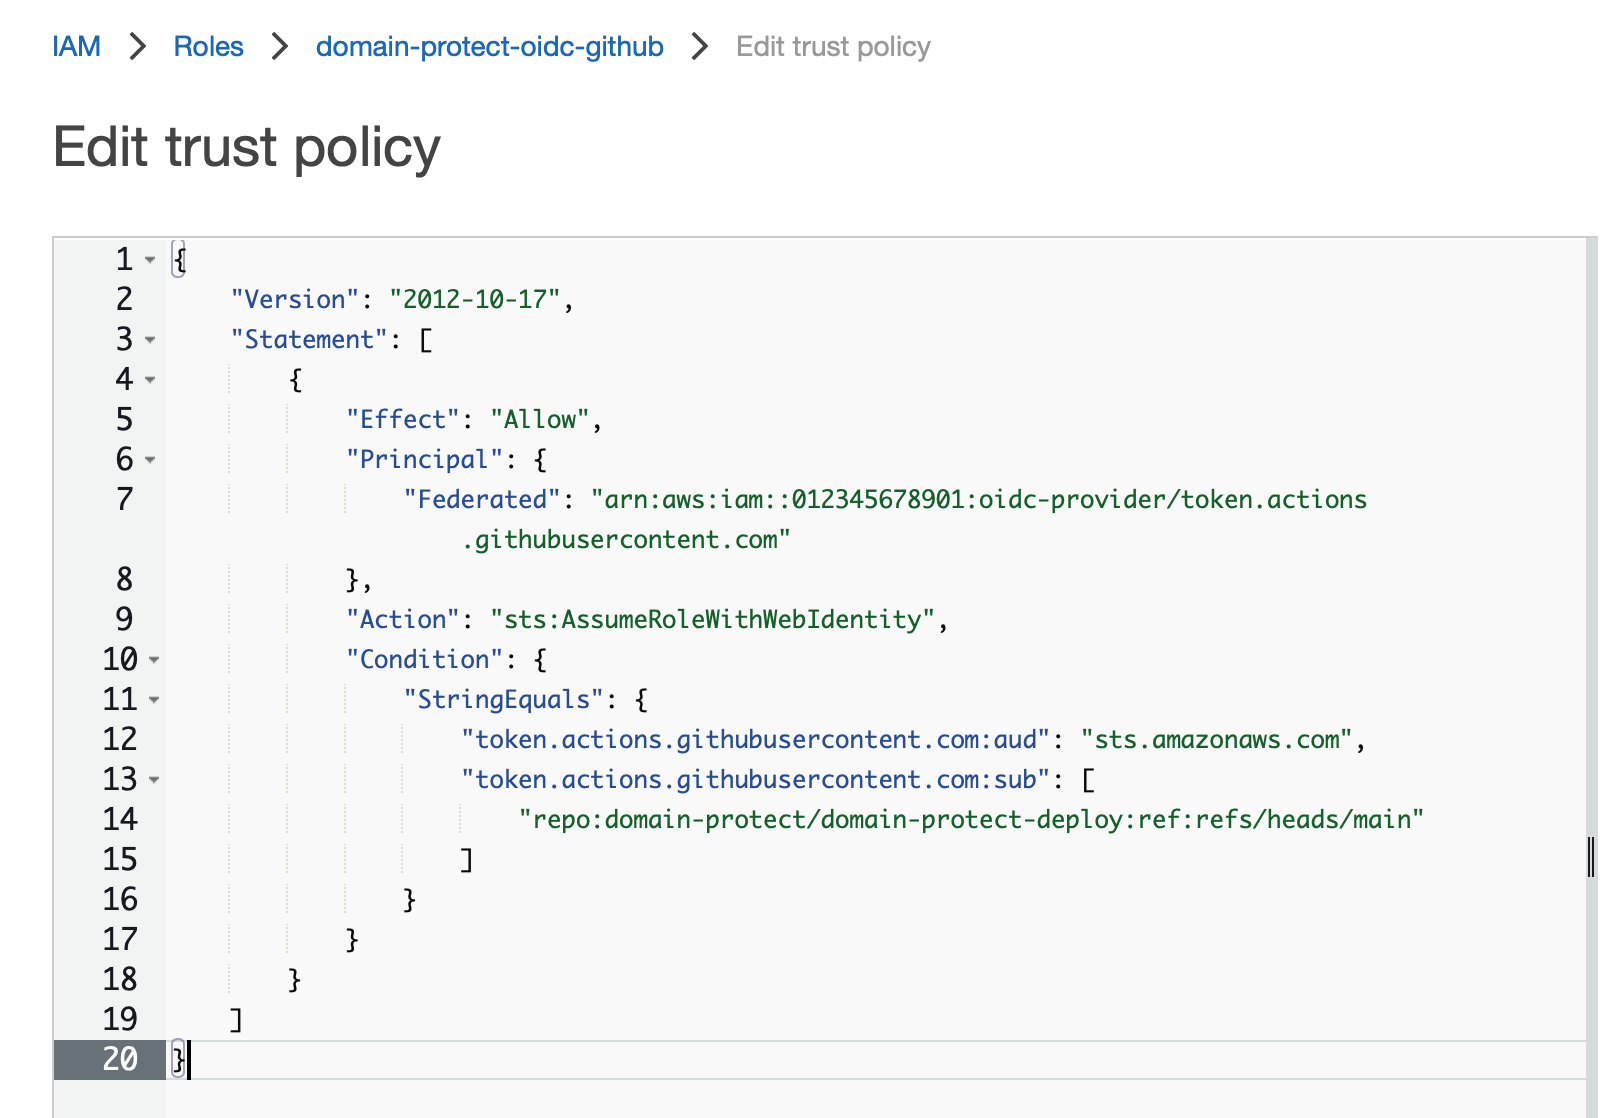
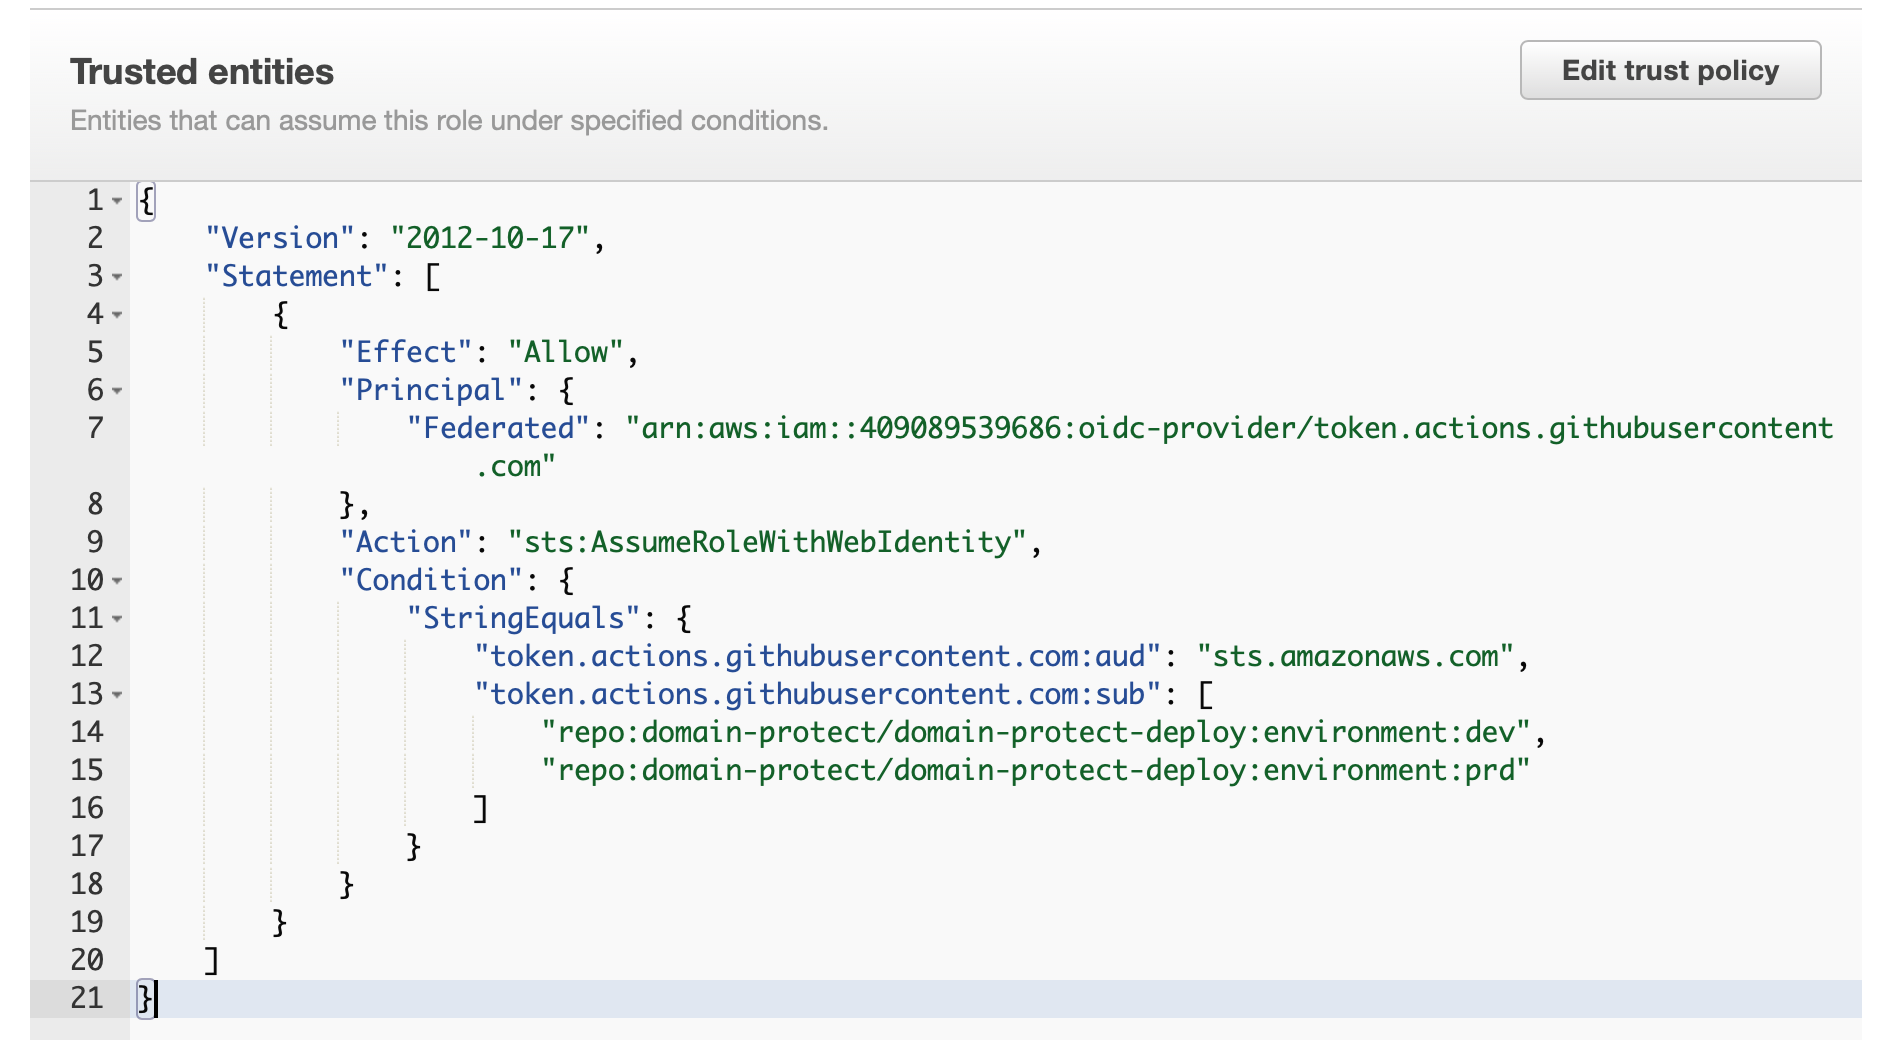
add dev environment

Changed region(s): [[0.0, 0.0308, 0.9864, 1.0], [0.185, 0.0308, 0.5857, 0.0615], [0.8015, 0.0308, 0.9556, 0.1231]]

diff --git a/docs/REPO.md b/docs/REPO.md
@@ -10,13 +10,15 @@ git push origin main
 ## Set up GitHub Actions environment
 * a GitHub Actions environment is needed for manual approval steps
 * within the GitHub repository web console, select Settings, Code and automation, Environments
+* create a new environment `dev` with no protection rules
 * create a new environment `prd`
-<img src="images/actions-environment.png" width="500">
-* configure Environment protect rules
+* configure Environment protection rules for `prd`
 * select Required reviewers
 * enter an appropriate team
 <img src="images/actions-env-protection.png" width="500">
 * save protection rules
+<img src="images/actions-environment.png" width="500">
+* environments names need to match entries in IAM OIDC role trust policy 
 
 ## Enter secrets
 * at Settings, Security, Secrets, Actions, enter Repository secrets:

diff --git a/docs/OIDC.md b/docs/OIDC.md
@@ -33,7 +33,8 @@
                 "StringEquals": {
                     "token.actions.githubusercontent.com:aud": "sts.amazonaws.com",
                     "token.actions.githubusercontent.com:sub": [
-                        "repo:YOUR_GITHUB_ORG/domain-protect-deploy:ref:refs/heads/main"
+                        "repo:YOUR_GITHUB_ORG/domain-protect-deploy:environment:dev",
+                        "repo:YOUR_GITHUB_ORG/domain-protect-deploy:environment:prd"
                     ]
                 }
             }
